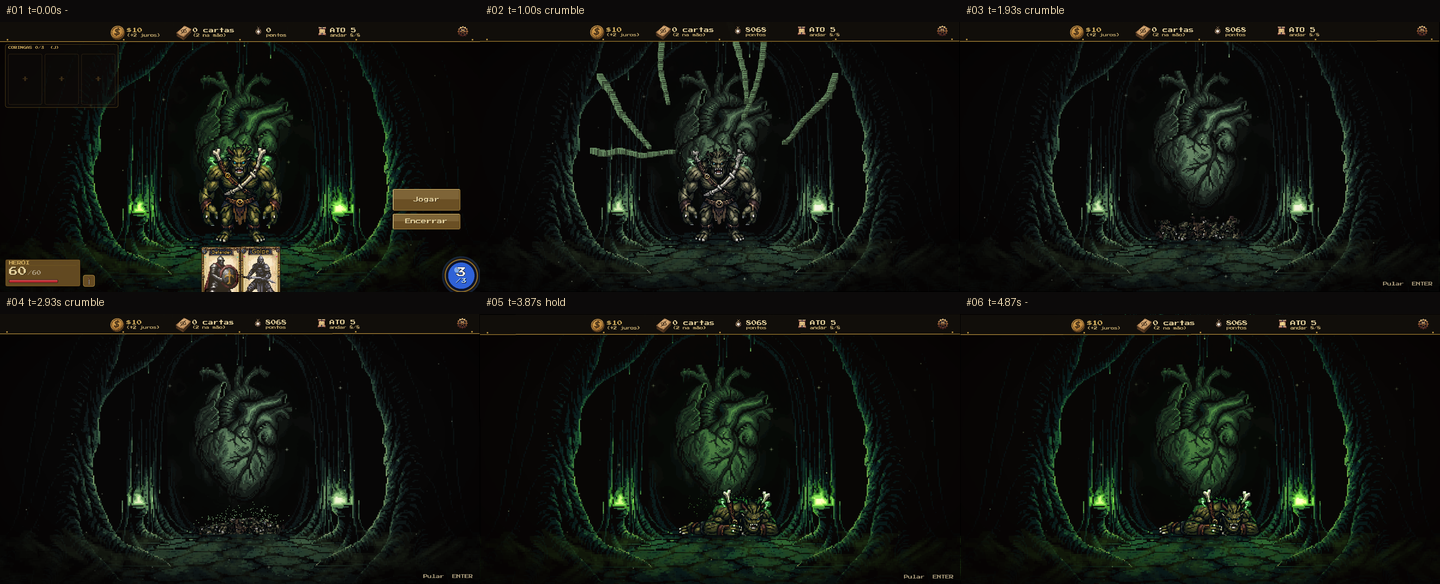
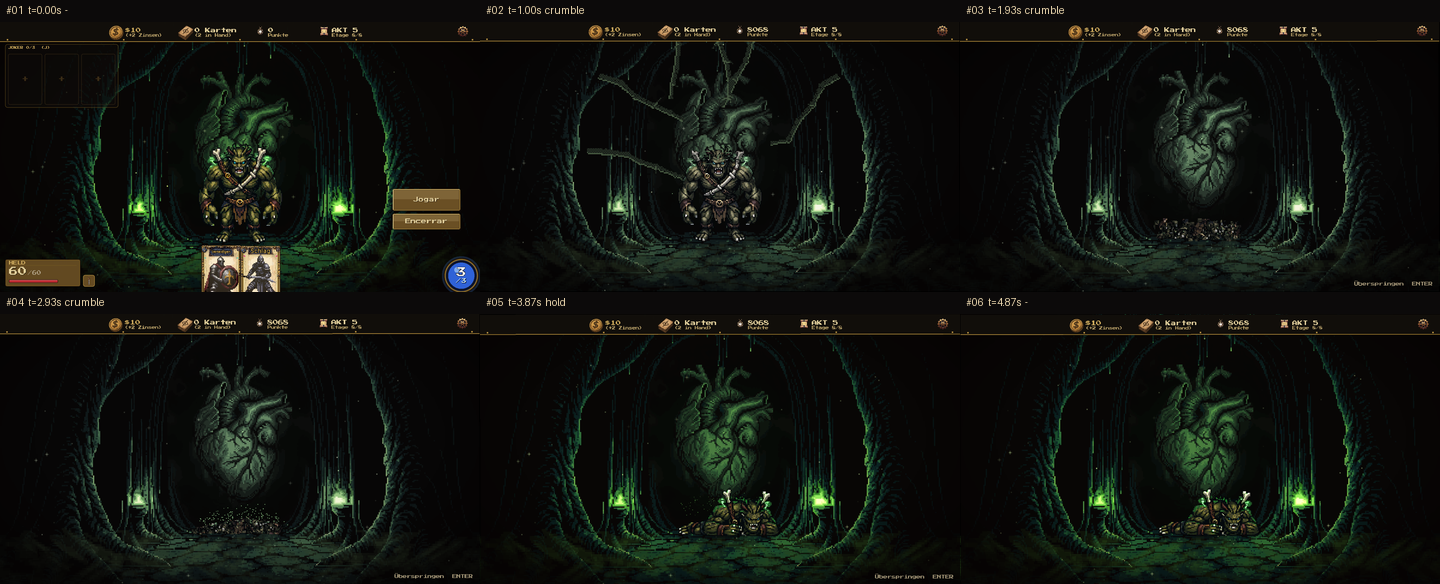
Colosso: raizes v3 (raiz pintada, nao laser) e vinheta da batida eliptica em degraus (sem moldura retangular)
Revisao do lead sobre de80b03f: (1) as raizes liam como lasers/vetores
(linhas retas de largura uniforme, verde neon com brilho aditivo); (2) a
vinheta da batida do coracao era uma MOLDURA retangular inset (lia como
borda de debug).

- Raizes v3 (startRoots/drawRoots): caminho em SEGMENTOS de 12 a 20 px da
  arte com cotovelos (+-25 graus), no mais grosso em cada junta e raminho
  curto em ~45% delas; pincel perpendicular ao caminho de 5 -> 2 celulas da
  arte (grossa na boca da parede, fina na ponta); cor base marrom-esverdeada
  escura tirada do proprio castle_hall_5, textura por dither em xadrez de
  dois tons, aresta de 1 celula mais clara SO do lado da luz (o centro do
  salao, onde o coracao bate); sem brilho aditivo; o verde do elemento fica
  SO na ponta que agarra (ultimos 12%) e nos esporos.
- Vinheta do coracao: textura 192x108 gerada uma vez (alpha eliptico em 4
  degraus com dither Bayer no limiar), nearest, esticada na tela e pulsando
  com a batida (heartFlash) na cor do chefe. Nenhuma aresta reta.
- Prova: tools/preview_out/boss_cinematic/boss_cine_{intro,death}_rot_colossus_sheet.png
  refeitas (quadros do save dir limpos antes: a prancha anterior tinha um
  quadro de outro ato no #12) e colossus_roots_v3_1to1.png (antes/depois
  1:1 da mesma raiz em t=4,0 s).

diff --git a/memory/boss_cinematics.md b/memory/boss_cinematics.md
@@ -118,7 +118,7 @@ cabeçalho documenta todos os kinds e campos); cada chefe tem `palette`
 | **tower_lich** (A2, flutua) | `dark` → `runes n=5` (glifos 3×5 em blocos de ~1,6 px da arte, círculo pontilhado fecha e FICA até o pouso) → `rise clip=rise storm=bossFrostStorm` (recorte na linha do chão, geada branca subindo) → `land ring=ice particle=shard` → `title clip=roar` | lascas (`shard`) + `bossFrostShatter`, slowmo, desat |
 | **abyss_tyrant** (A3, pisa) | `dark` → `door_burst` (flash+onda no portão, lascas, brasas, salão acende) → `firewall hold=2.3` (bandas de blobs de brasa, fica de pé enquanto ele atravessa) → `chains n=4` (elos 2×3 blocos, gancho) → `walk_in clip=stride stomp=0.55` → `land ring=lava particle=ember` → `title clip=roar` | brasas + `lava` (poça cresce sob o corpo, bolhas) + `bossLavaImplosion`, desat curta |
 | **winter_monarch** (A4, pisa) | `dark` → `whiteout peak=0.9` (5 degraus, teto 0,8; rajadas de névoa em 2 camadas, flocos esticados, uivo em loop) → `silhouette clip=walk` (preto dentro do branco, andando no lugar) → `settle` → `land ring=frost clip=roar` (cajado bate: cristais) → `title` | 34 lascas + `bossFrostShatter` |
-| **rot_colossus** (A5, pisa) — **v2 Out/2026** (dono: "do nada surgindo, não fez sentido") | `dark` → `heartbeat rate=2.4 hold=4.2` → `roots n=7 from=walls grasp` (raízes GROSSAS, 5→2 px da arte, descem das bocas pintadas `InteriorFX.HALLS[5].rootMouths` e agarram o palco) → `assemble block=5` (o corpo se MONTA de blocos do próprio quadro 0 do idle puxados do chão, pés → tronco → cabeça, `colossusAssemble`) → `land clip=roar cracks ring=spores` (raízes se retraem, ele ergue a cabeça, o chão racha com luz verde vazando, `colossusCrack`) → `title clip=false` | sem slowmo: `crumble delay=0.7 roots=6` (chefe real escondido; raízes agarram e soltam; blocos caem com gravidade, quicam, viram monte + esporos; o monte esvaece sobre o cadáver real) + `colossusCrumble` |
+| **rot_colossus** (A5, pisa) — **v2 Out/2026** (dono: "do nada surgindo, não fez sentido") | `dark` → `heartbeat rate=2.4 hold=4.2` → `roots n=7 from=walls grasp` (raízes v3: caminho em segmentos de 12-20 px com cotovelos, nós e raminhos; pincel de 5→2 células da arte, marrom-esverdeado do próprio salão em dither, aresta clara só do lado da luz, verde SÓ na ponta que agarra, sem brilho aditivo; descem das bocas pintadas `InteriorFX.HALLS[5].rootMouths` e agarram o palco; vinheta da batida é ELÍPTICA em degraus com dither, nunca moldura reta) → `assemble block=5` (o corpo se MONTA de blocos do próprio quadro 0 do idle puxados do chão, pés → tronco → cabeça, `colossusAssemble`) → `land clip=roar cracks ring=spores` (raízes se retraem, ele ergue a cabeça, o chão racha com luz verde vazando, `colossusCrack`) → `title clip=false` | sem slowmo: `crumble delay=0.7 roots=6` (chefe real escondido; raízes agarram e soltam; blocos caem com gravidade, quicam, viram monte + esporos; o monte esvaece sobre o cadáver real) + `colossusCrumble` |
 | **eclipse_queen** (A6, flutua) | `dark` → `eclipse u=.5 v=.227` (disco + coroa pontilhada, zumbido) → `descend clip=descend backlit` (silhueta → cor cheia) → `land ring=petal particle=petal` → `title clip=roar` | pétalas + `bossEclipseBreak` + `dawn` (luz morna cresce na abertura, feixe até o corpo) |
 
 Infra que entrou pra isso: `land.ring` (RING_STYLES: cores da onda),
